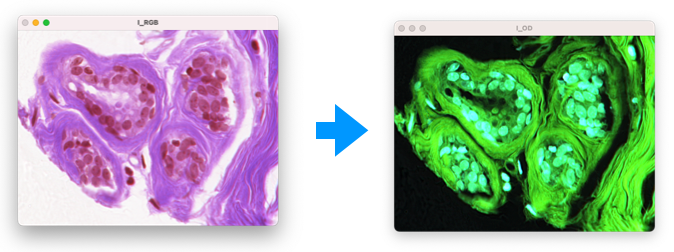
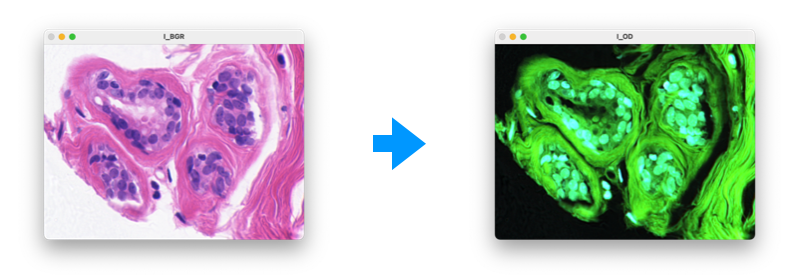
chore: Update publish package
From python-patho 0.1.0 to 0.1.1, adding color deconvolution in 0.1.1.

diff --git a/demo.py b/demo.py
@@ -8,9 +8,11 @@ I_OD     = convert_RGB_to_OD(I_RGB)
 
 I_H, I_E = color_decon(I_RGB)
 
+# convert to show true color in monitor
+I_H = cv2.cvtColor(I_H, cv2.COLOR_RGB2BGR)
+I_E = cv2.cvtColor(I_E, cv2.COLOR_RGB2BGR)
 
-
-cv2.imshow('I_RGB', I_RGB)
+cv2.imshow('I_BGR', I_BGR)
 cv2.imshow('I_OD', I_OD)
 cv2.imshow('I_H', I_H)
 cv2.imshow('I_E', I_E)

diff --git a/setup.py b/setup.py
@@ -2,7 +2,7 @@ from setuptools import setup
 
 setup(
     name='python-patho',
-    version='0.1.0',    
+    version='0.1.1',    
     description='Python library for pathology image analysis',
     url='https://github.com/superizer/pypath',
     author='Attasuntorn Traisuwan',

diff --git a/README.md b/README.md
@@ -1,6 +1,6 @@
 # PyPath
 
-![build fail](./images/build_fail.svg)
+![build fail](./images/build_pass.svg)
 [![PyPI version](https://badge.fury.io/py/python-patho.svg)](https://badge.fury.io/py/python-patho)
 [![GPLv3 license](https://img.shields.io/badge/License-GPLv3-blue.svg)](http://perso.crans.org/besson/LICENSE.html)
 
@@ -43,6 +43,13 @@ $ python demo.py
 >>> I_OD  = convert_RGB_to_OD(I_RGB)
 ```
 
-![RGB ](./images/od_rgb_convert.png)
+![RGB](./images/od_rgb_convert.png)
+
+```python
+>>> I_H, I_E = color_decon(I_RGB)
+```
+
+![CD](./images/color_decon.png)
+
 ## License
 [GNU Affero General Public License v3.0](LICENSE)
